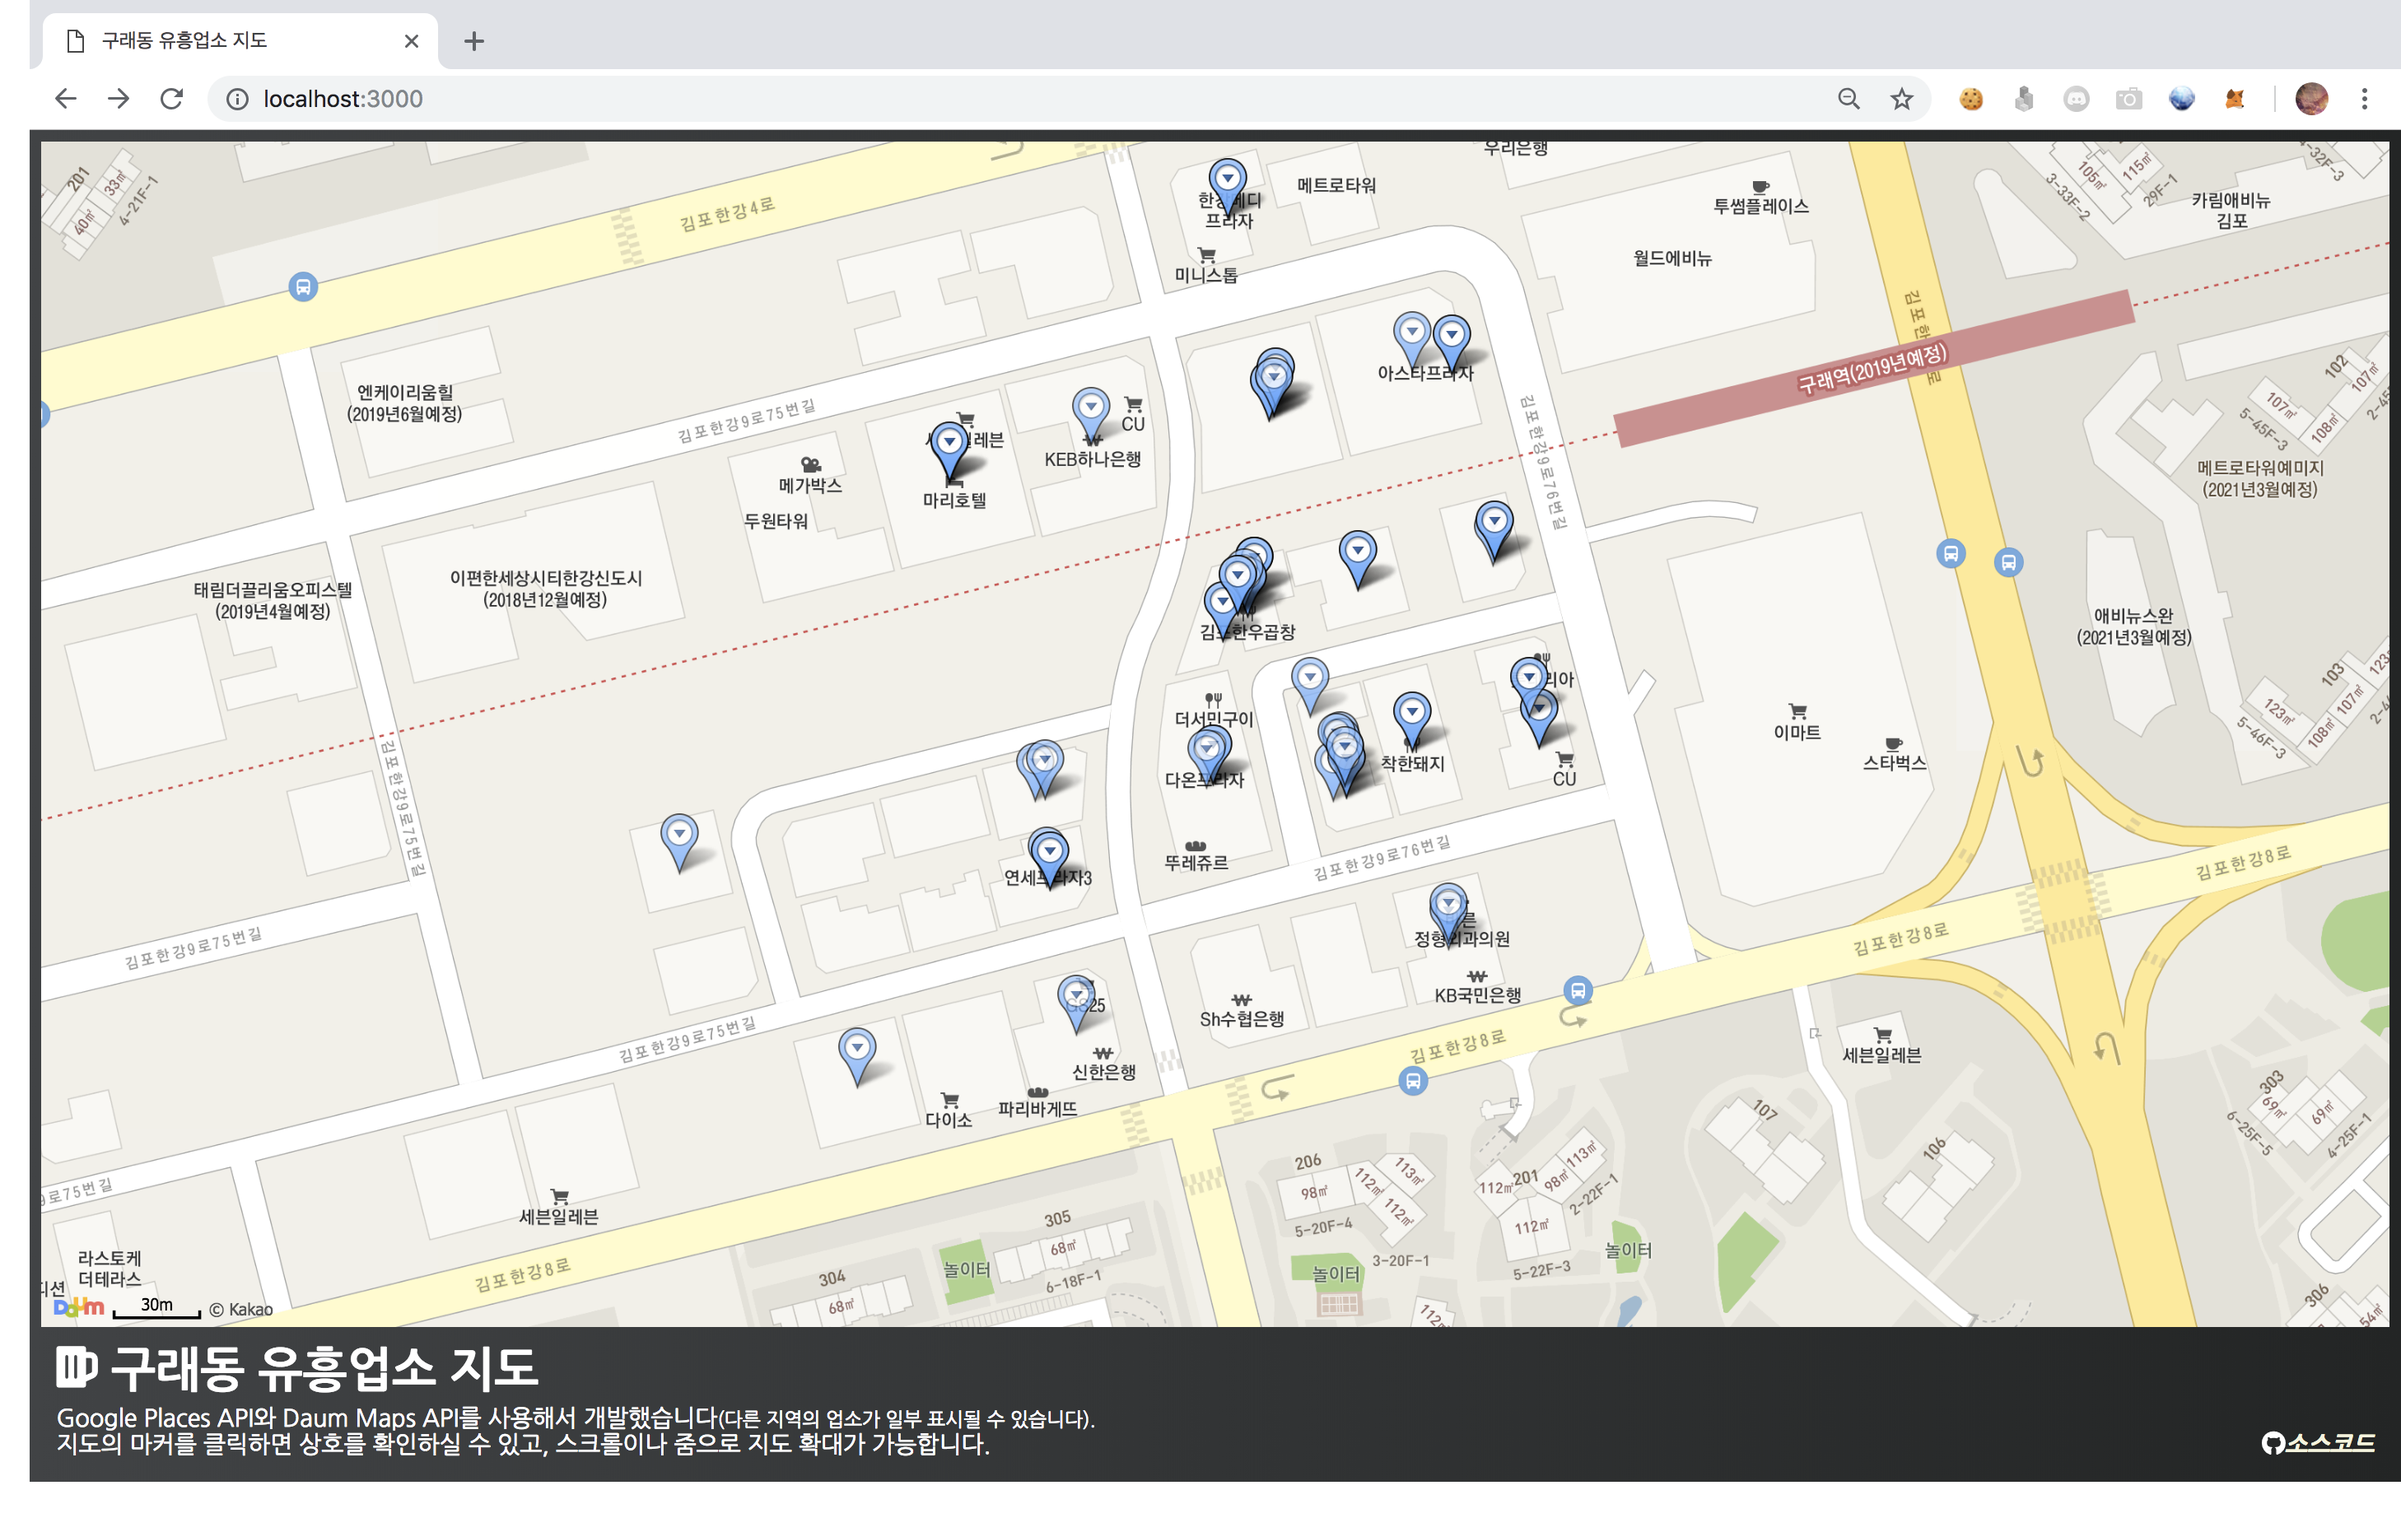
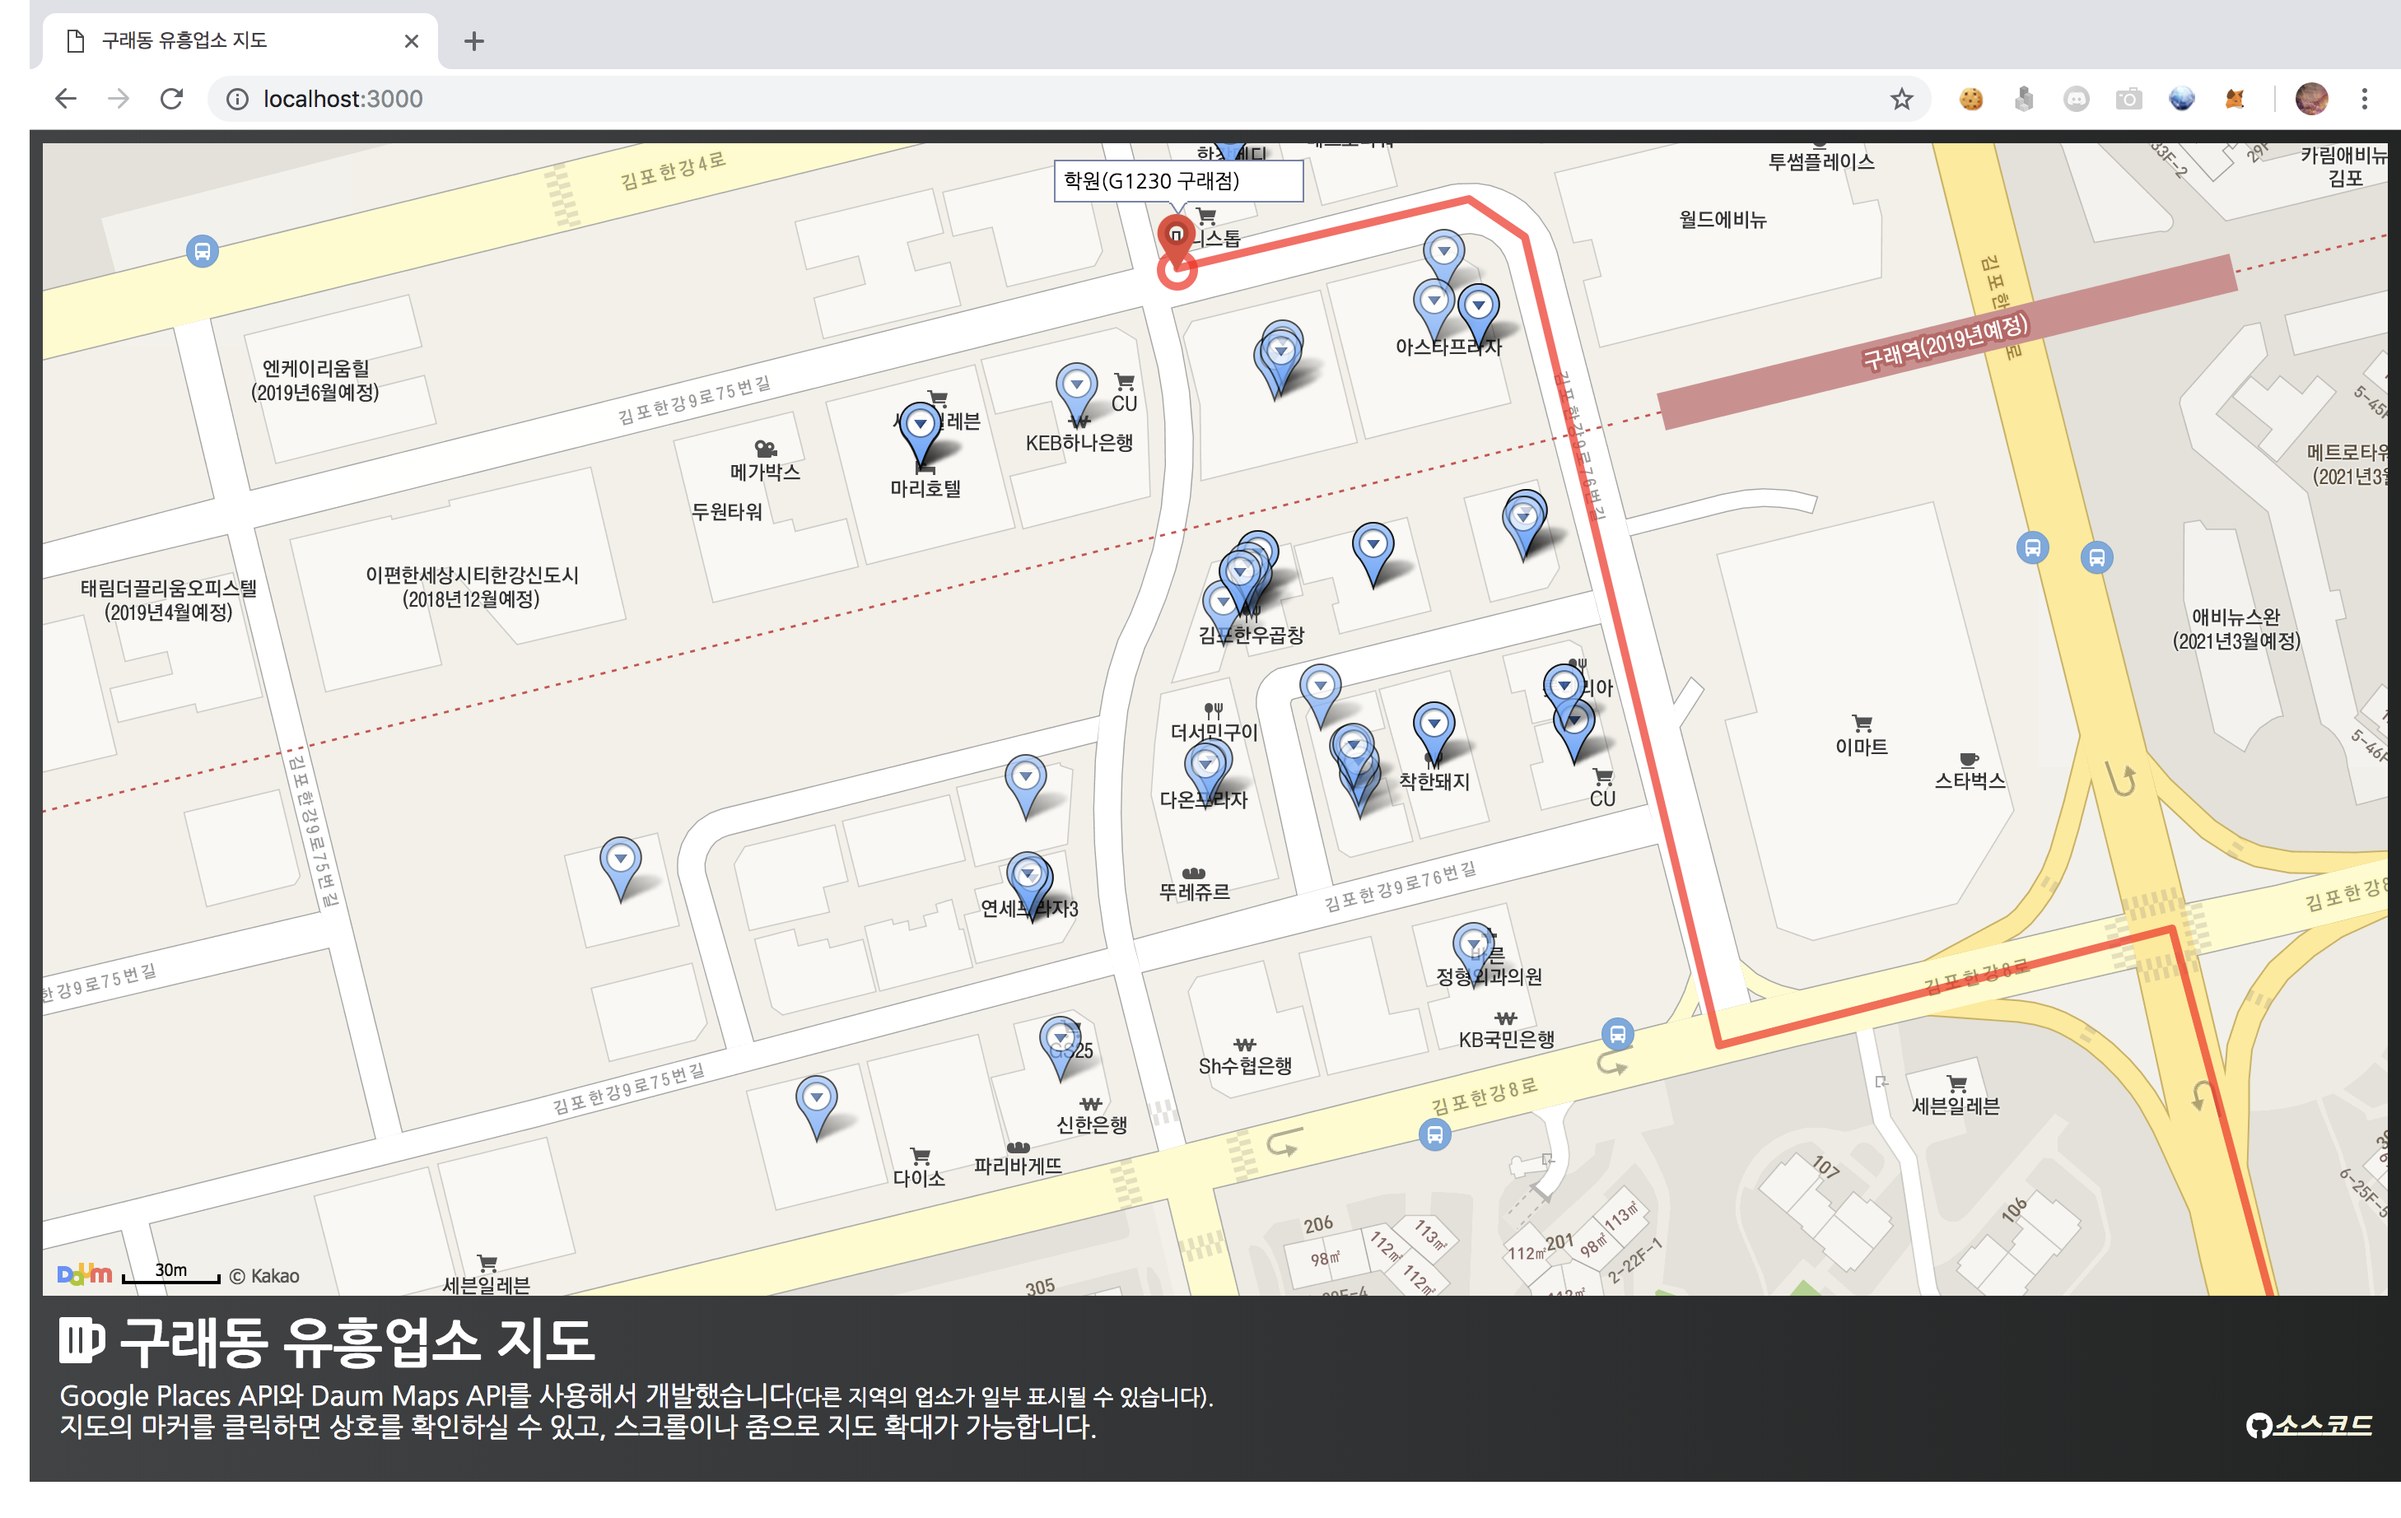
UPDATE : route to G1230

diff --git a/index.html b/index.html
@@ -14,6 +14,10 @@
             background: -webkit-linear-gradient(to right, #414345, #232526);  /* Chrome 10-25, Safari 5.1-6 */
             background: linear-gradient(to right, #414345, #232526); /* W3C, IE 10+/ Edge, Firefox 16+, Chrome 26+, Opera 12+, Safari 7+ */
         }
+        #map {
+            width: 100%;
+            height: 700px;
+        }
         .info {
             color: white;
             margin-left: 10px;
@@ -40,8 +44,8 @@
             margin-right: 10px;
         }
     </style>
-    <div id="map" style="width: 100%; height: 700px;"></div>
-    <script type="text/javascript" src="//dapi.kakao.com/v2/maps/sdk.js?appkey=APP_KEY&libraries=services"></script>
+    <div id="map"></div>
+    <script type="text/javascript" src="//dapi.kakao.com/v2/maps/sdk.js?appkey=APP_KEY&libraries=services,drawing"></script>
     <script type="text/javascript" src="//d3js.org/d3.v3.min.js" charset="utf-8"></script>
 	<script type="text/javascript" src="./map.js"></script>
     <div class="info">
@@ -53,5 +57,59 @@
         </p>
     </div>
 </div>
+<script>
+function drawCircle(center){
+    var circle = new daum.maps.Circle({
+        map: map,
+        center: center,  // 원의 중심좌표 입니다 
+        radius: 5, // 미터 단위의 원의 반지름입니다 
+        strokeWeight: 5, // 선의 두께입니다 
+        strokeColor: '#FF0000', // 선의 색깔입니다
+        strokeOpacity: 0.7, // 선의 불투명도 입니다 1에서 0 사이의 값이며 0에 가까울수록 투명합니다
+        strokeStyle: 'soild', // 선의 스타일 입니다
+        fillColor: '#FFFFFF', // 채우기 색깔입니다
+        fillOpacity: 1  // 채우기 불투명도 입니다   
+    });
+}
+var linePath = [
+    new daum.maps.LatLng(37.640168, 126.640539), 
+    new daum.maps.LatLng(37.639582, 126.637663), 
+    new daum.maps.LatLng(37.638741, 126.635368), 
+    new daum.maps.LatLng(37.637917, 126.631741), 
+    new daum.maps.LatLng(37.638019, 126.631323), 
+    new daum.maps.LatLng(37.643781, 126.629360),
+    new daum.maps.LatLng(37.643458, 126.627804),
+    new daum.maps.LatLng(37.645667, 126.627120),
+    new daum.maps.LatLng(37.645771, 126.626932),
+    new daum.maps.LatLng(37.645575, 126.625925)
+];
+drawCircle(linePath[0]);
+drawCircle(linePath[linePath.length - 1]); 
+
+var markerImage = new daum.maps.MarkerImage(
+    './marker-red.png',
+    new daum.maps.Size(35, 35), 
+    new daum.maps.Point(18, 34)
+);
+var dest = new daum.maps.Marker({
+    map: map,
+    position: linePath[linePath.length - 1],
+    fillOpacity: 0.8
+});
+dest.setImage(markerImage);
+daum.maps.event.addListener(dest, 'click', function() {
+    infowindow.setContent('<div style="padding:5px;font-size:12px;">학원(G1230 구래점)</div>');
+    infowindow.open(map, dest);
+});
+
+var polyline = new daum.maps.Polyline({
+    path: linePath, // 선을 구성하는 좌표배열 입니다
+    strokeWeight: 5, // 선의 두께 입니다
+    strokeColor: '#FF0000', // 선의 색깔입니다
+    strokeOpacity: 0.7, // 선의 불투명도 입니다 1에서 0 사이의 값이며 0에 가까울수록 투명합니다
+    strokeStyle: 'solid' // 선의 스타일입니다
+});
+polyline.setMap(map);        
+</script>
 </body>
 </html>

diff --git a/search.py b/search.py
@@ -1,7 +1,7 @@
 import requests, json, pprint
 
 def getPlace(keyword, api_key):
-    url = 'https://maps.googleapis.com/maps/api/place/textsearch/json?'
+    url = 'https://maps.googleapis.com/maps/api/place/textsearch/json'
     payload = { 'key': api_key, 'query': ('구래동 ' + keyword.strip()).replace(' ', '+') }
     data = json.loads(requests.get(url, params=payload).text)['results']
     result = []

diff --git a/README.md b/README.md
@@ -13,3 +13,5 @@
 4. Run `python -m SimpleHTTPServer 3000` and open your browser, go to `http://localhost:3000` and tada! If this doesn't work, you may need to register the domain `http://localhost:3000` in your Kakao App that you used the `APP_KEY` with.
 
 Please don't include your personal data(like your `api_key`/`APP_KEY`) or the **data of any business** when you contribute.
+
+5. modify script in `index.html` to display custom routes.
